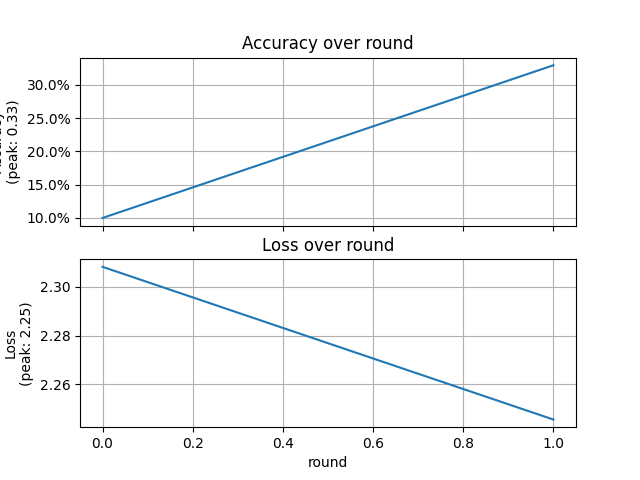
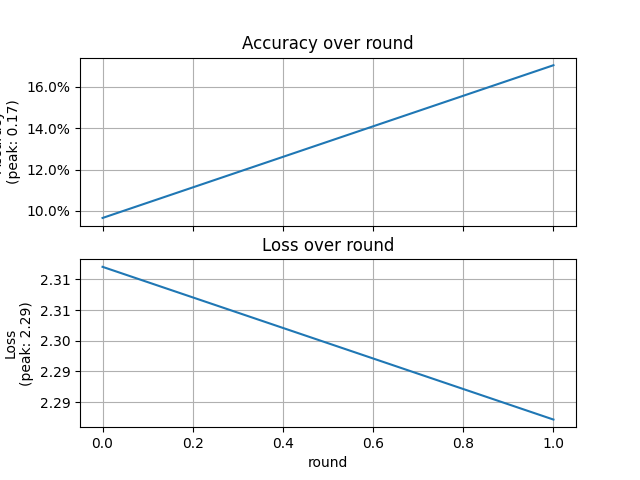
refactor

diff --git a/src/ModelConf.py b/src/ModelConf.py
@@ -7,7 +7,7 @@ import pickle
 import os
 import gc
 import matplotlib.pyplot as plt
-
+import globalVariable
 
 import globalVariable as gv
 
@@ -44,25 +44,35 @@ class ModelConf:
         self.x_test = self.x_test / 255
         self.y_train = to_categorical(self.y_train, self.classes_number)
         self.y_test = to_categorical(self.y_test, self.classes_number)
+        if self.dataset_name == 'mnist':
+            self.x_train = self.x_train.reshape(self.x_train.shape[0],self.x_train.shape[1], self.x_train.shape[2],1)
+            self.x_test = self.x_test.reshape(self.x_test.shape[0],self.x_test.shape[1], self.x_test.shape[2],1)
 
     def generate_dataset_client_partition(self):
-        x_train_partitions = np.array(np.array_split(self.x_train, gv.CLIENTS_NUM))
-        y_train_partitions = np.array(np.array_split(self.y_train, gv.CLIENTS_NUM))
+        #random_numbers = np.sort(np.random.multinomial(self.x_train.shape[0], np.ones(globalVariable.CLIENTS_NUM)/globalVariable.CLIENTS_NUM))
+       
+        #print( random_numbers)
         dataset_partition_dir = f"dataset/{self.dataset_name}_partitions"
-        
         if not os.path.exists(dataset_partition_dir):
-            os.makedirs(dataset_partition_dir)                
-                
-        #save train partitions on file 
-        for i in np.arange(len(x_train_partitions)):
+            os.makedirs(dataset_partition_dir)   
+                        
+        # x_train_splitted = np.array_split(self.x_train, random_numbers) 
+        # y_train_splitted = np.array_split(self.y_train, random_numbers) 
+        x_train_splitted = np.array_split(self.x_train, globalVariable.CLIENTS_NUM) 
+        y_train_splitted = np.array_split(self.y_train, globalVariable.CLIENTS_NUM) 
+        for i in range(globalVariable.CLIENTS_NUM):
+            # print("----------------------------")
+            # print(x_train_splitted[i].shape)
+            # print(y_train_splitted[i].shape)
+            # print("----------------------------")
             with open(os.path.join(dataset_partition_dir, f"x_train_partition_of_{i}.pickle"), "wb") as f:
-                pickle.dump(x_train_partitions[i],f)
+                pickle.dump(x_train_splitted[i],f)
+                print(x_train_splitted[i].shape)
             with open(os.path.join(dataset_partition_dir, f"y_train_partition_of_{i}.pickle"), "wb") as f:
-                pickle.dump(y_train_partitions[i],f)
-        
-        
-        del x_train_partitions
-        del y_train_partitions
+                pickle.dump(y_train_splitted[i],f)
+                        
+        del x_train_splitted
+        del y_train_splitted
         gc.collect()
 
     def get_client_training_partitions_of(self, client_partition_index):

diff --git a/src/main.py b/src/main.py
@@ -71,15 +71,15 @@ def clear_ram():
 #       whitout poisoning
 #
 #####################################
-start_cifa10(False)
-clear_ram()
+""" start_cifa10(False)
+clear_ram() """
 
-start_mnist(False)
-clear_ram()
+""" start_mnist(False)
+clear_ram() """
 
-
+""" 
 start_cifar100(False)
-clear_ram()
+clear_ram() """
 
 
 #####################################
@@ -87,11 +87,11 @@ clear_ram()
 #       whit poisoning
 #
 #####################################
-start_cifa10(True)
-clear_ram()
+""" start_cifa10(True)
+clear_ram() """
 
 start_mnist(True)
 clear_ram()
-
+""" 
 start_cifar100(True)
-clear_ram()
+clear_ram() """

diff --git a/src/Server.py b/src/Server.py
@@ -18,7 +18,7 @@ class Server:
         self.strategy = fl.server.strategy.FedAvg(
             min_fit_clients=gv.CLIENTS_NUM,
             min_evaluate_clients=gv.CLIENTS_NUM,
-            min_available_clients=((gv.CLIENTS_NUM * 50) / 100),
+            min_available_clients=gv.CLIENTS_NUM,
             evaluate_fn=self.get_eval_fn(),
             evaluate_metrics_aggregation_fn=Server.weighted_average
         )

diff --git a/src/globalVariable.py b/src/globalVariable.py
@@ -1,5 +1,6 @@
 import numpy as np
 
 CLIENTS_NUM = 10
-ROUNDS_NUM = 5
-POISONERS_CLIENTS_CID =  np.random.randint(0, CLIENTS_NUM, round((CLIENTS_NUM * 30) / 100))
+ROUNDS_NUM = 1
+POISONERS_CLIENTS_CID =  np.random.randint(0, CLIENTS_NUM - 1, round((CLIENTS_NUM * 20) / 100))
+POISONERS_CLIENTS = 2
